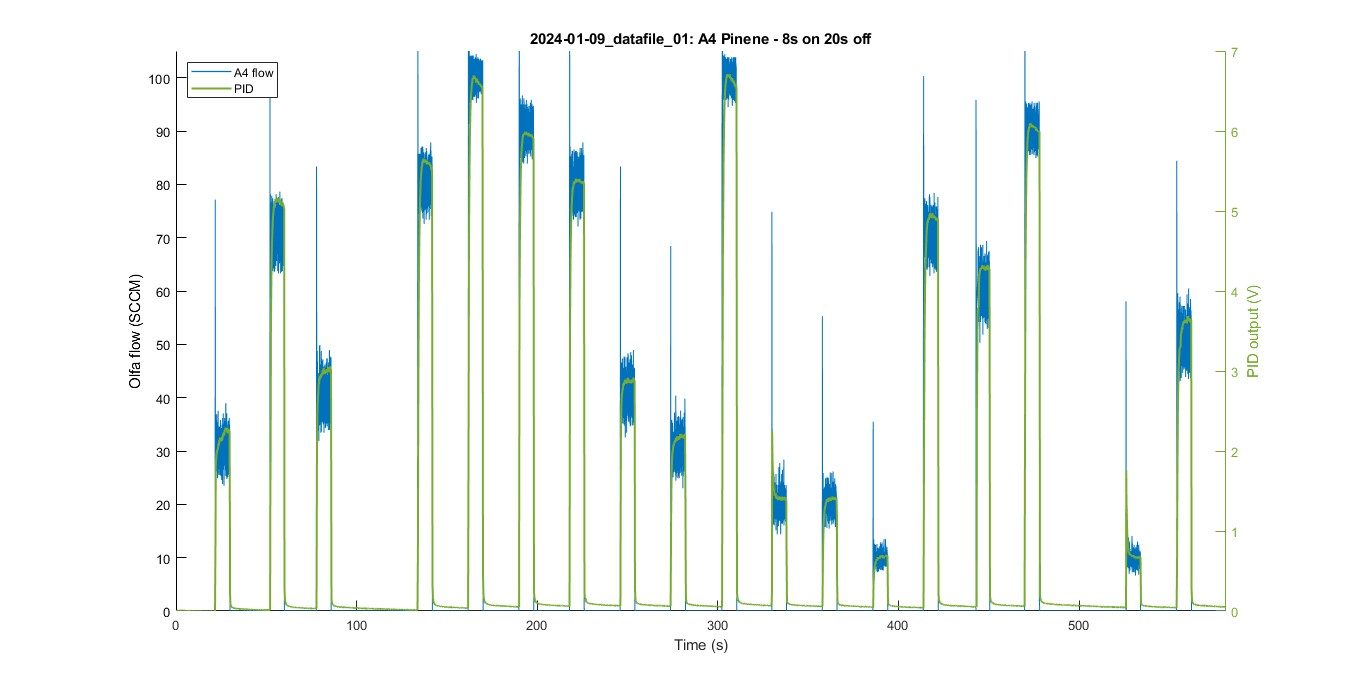
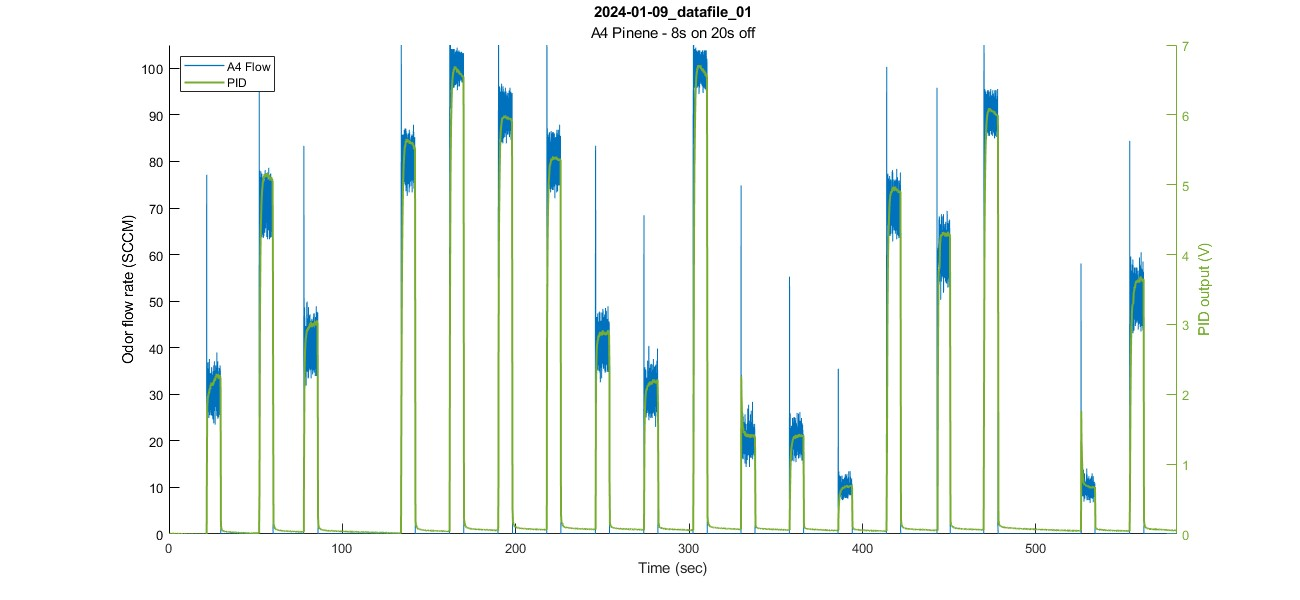
Analysis Docs: Updated images & input arguments to match current functions (a_plot_olfa_and_pid; a_plot_spt_char)

diff --git a/analysis/a_plot_spt_char.m b/analysis/a_plot_spt_char.m
@@ -29,9 +29,9 @@
 %   fig_position
 %   legend_on
 %   show_error_bars
-%   x_lim
 %
 %For individual event plots:
+%   x_lim
 %   plot_x_lines
 %   show_pid_mean
 %   show_flow_mean
@@ -70,9 +70,9 @@ arguments
         plot_opts.fig_position      (1,:) double = [1050 230 812 709]   % flow v. PID plot
         plot_opts.legend_on         (1,:) string = 'yes'
         plot_opts.show_error_bars   (1,1) string = 'yes'
-        plot_opts.x_lim             (1,:) double = []
         
         % For individual event plots
+        plot_opts.x_lim             (1,:) double = []
         plot_opts.show_pid_mean     (1,1) string = 'no'     % Overlay mean PID value on plot
         plot_opts.show_flow_mean    (1,1) string = 'no'     % Overlay mean flow value on plot
         plot_opts.show_x_lines      (1,1) string = 'no'     % Overlay x-lines of where the mean was calculated from
@@ -171,7 +171,6 @@ try
         
         %% Create figure
         figTitle = a_thisfile_name;
-        if ~strcmp(a_this_note, ''); figTitle = append(figTitle, ': ',  a_this_note); end
         f1 = figure; f1.NumberTitle = 'off'; f1.Position = f0.position; hold on;
         f1.Name = a_thisfile_name;
         title(figTitle)

diff --git a/analysis/Documentation/README_a_plot_olfa_and_pid.md b/analysis/Documentation/README_a_plot_olfa_and_pid.md
@@ -37,18 +37,18 @@ Plots olfa flow (SCCM) and PID over time
 
 3. **Plots selected data over time**
 	- Create/set up figure
-		- If selected: Set X limits (`f.x_lim`)
+		- If selected: Set X limits (`plot_opts.x_lim`)
 	
 	- If selected: **Plot olfa flow** (`plot_opts.olfa_flow`)  
 		(default=yes)
-		<!--Vial color based on `f.colors` variable, hard coded in header -->
+		<!--Vial color based on `plot_opts.colors` variable, hard coded in header -->
 		<details>
 		
 		- For each vial:
 			- Get data to plot (SCCM or int) (`plot_opts.flow_in_SCCM`)
 			- Set axis options:
 				- Set Y-Limits (`plot_opts.flow_lims`)
-				- If selected: Scale time (`f.scale_time`)
+				- If selected: Scale time (`plot_opts.scale_time`)
 				- If selected: Change timescale to minutes (`plot_opts.plot_in_minutes`)
 			- **Plot olfa flow**
 		</details>
@@ -65,7 +65,7 @@ Plots olfa flow (SCCM) and PID over time
 		
 	- If selected: **Plot olfa ctrl** (`plot_opts.olfa_ctrl`)  
 		(default=right yaxis, left yaxis if flow is plotted)
-		<!--Vial color based on `f.c_colors` variable, hard coded in header -->
+		<!--Vial color based on `plot_opts.c_colors` variable, hard coded in header -->
 		<details>
 
 		- For each vial:
@@ -73,7 +73,7 @@ Plots olfa flow (SCCM) and PID over time
 			- Set axis options:
 				- If plotting as integer, set Y-Limits (`plot_opts.ctrl_lims`)
 				- If olfa flow is plotted: plot ctrl on right yaxis (else, plot on left yaxis) (`plot_opts.olfa_flow`) 
-				- If selected: Scale time (`f.scale_time`)
+				- If selected: Scale time (`plot_opts.scale_time`)
 				- If selected: Change timescale to minutes (`plot_opts.plot_in_minutes`)
 			- **Plot olfa ctrl**
 		</details>
@@ -84,7 +84,7 @@ Plots olfa flow (SCCM) and PID over time
 
 		- Set axis options:
 			- Set Y-Limits (`plot_opts.pid_lims`)
-			- If selected: Scale time (`f.scale_time`)
+			- If selected: Scale time (`plot_opts.scale_time`)
 			- If selected: Change timescale to minutes (`plot_opts.plot_in_minutes`)
 		- **Plot PID**
 		</details>
@@ -123,8 +123,10 @@ Plots olfa flow (SCCM) and PID over time
 ### Axis Limits  
 **pid_lims - Y-Limits for PID data**  
 &nbsp;&nbsp;[0 3] (default) | two-element vector  
-**flow_lims - Y-Limits for Olfa flow data**  
-&nbsp;&nbsp;two-element vector  
+**flow_lims - Y-Limits for Olfa flow data (SCCM)**  
+&nbsp;&nbsp;[0 105] (default) | two-element vector  
+**flow_lims_int - Y-Limits for Olfa flow data (integer)**  
+&nbsp;&nbsp;[0 1024] (default) | two-element vector  
 **ctrl_lims - Y-Limits for Olfa ctrl data**  
 &nbsp;&nbsp;[-5 260] (default) | two-element vector  
 <br>
@@ -132,15 +134,22 @@ Plots olfa flow (SCCM) and PID over time
 ** need to finish shifting stuff over to input arguments probably
 <br>
 
-### Other
+### Plot options:
 **fig_position - Location and size of figure**  
-&nbsp;&nbsp;[ left bottom width height]  
+&nbsp;&nbsp;[166 210 1300 600] (default) | [left bottom width height]  
+**legend_on - Display legend on figure**  
+&nbsp;&nbsp;'yes' (default) | 'no'  
 **flow_width - LineWidth for flow data**  
 &nbsp;&nbsp;1 (default) | positive value  
 **pid_width - LineWidth for PID data**  
 &nbsp;&nbsp;1.5 (default) | positive value  
-**legend_on - Display legend on figure**  
-&nbsp;&nbsp;'yes' (default) | 'no'  
+<br>
+
+### Other
+**x_lim - X-Limits for figure (in seconds)**  
+&nbsp;&nbsp;two-element vector  
+**scale_time - Shift the data so t=0 at the beginning of the entered x_lims**  
+&nbsp;&nbsp;'no' (default) | 'yes'  
 **plot_setpoint - Draw a line at the setpoint for the duration of each OV event**  
 &nbsp;&nbsp;'no' (default) | 'yes'  
 

diff --git a/analysis/Documentation/README_a_plot_spt_char.md b/analysis/Documentation/README_a_plot_spt_char.md
@@ -31,25 +31,14 @@ Can add:
 
 ## Examples
 
-### Default:
-
-<details><summary>Create Flow vs. PID plot for the given file</summary>
-  <br>
-
-  **Default plot:**  
-  `a_plot_spt_char('2024-01-09_datafile_01');`
+**Default:**  
+Creates Flow vs. PID plot for the given file  
+`a_plot_spt_char('2024-01-09_datafile_01',pid_lims=[0 7]);`
   - Loads .mat file
-  - Calculates mean flow/PID for each event (Cuts 0 seconds from beginning/end)
+  - Calculates mean flow/PID for each event
   - Plots flow v. PID  
 
-<img src="images/examples/spt_char_default.jpg" width="40%">
-<br><br>
-
-  **Show error bars:**  
-  `a_plot_spt_char('2024-01-09_datafile_01',show_error_bars='yes');`  
-  
-  <img src="images/examples/spt_char_default_errorbars.jpg" width="40%">
-</details>
+<p align="center"><img src="images/examples/spt_char_default.jpg" width="35%"></p>
 <br>
 
 ### Additional plots:
@@ -193,17 +182,10 @@ X-lines show the timeframe where the mean was calculated from (usually relevant 
 ### Axis Limits  
 **pid_lims - Y-Limits for PID data**  
 &nbsp;&nbsp;[0 3] (default) | two-element vector  
-**flow_lims_sccm - Y-Limits for Olfa flow data**  
+**flow_lims - Y-Limits for Olfa flow data (SCCM)**  
 &nbsp;&nbsp;[0 105] (default) | two-element vector  
-<br>
-
-### Other
-**show_error_bars - Display error bars on Flow vs. PID plot**  
-&nbsp;&nbsp;'no' (default) | 'yes'  
-**fig_position - Location and size of figure**  
-&nbsp;&nbsp;[ left bottom width height]  
-**legend_on - Display legend on figure**  
-&nbsp;&nbsp;'yes' (default) | 'no'  
+**flow_lims_int - Y-Limits for Olfa flow data (integer)**  
+&nbsp;&nbsp;[0 1024] (default) | two-element vector  
 <br>
 
 ### Data manipulation
@@ -219,9 +201,20 @@ X-lines show the timeframe where the mean was calculated from (usually relevant 
 &nbsp;&nbsp;'no' (default) | 'yes'  
 <br>
 
+### Plot options:
+**fig_position - Location and size of Flow v. PID figure**  
+&nbsp;&nbsp;[1050 230 812 709] (default) | [left bottom width height]  
+**legend_on - Display legend on figure**  
+&nbsp;&nbsp;'yes' (default) | 'no'  
+**show_error_bars - Display error bars on Flow vs. PID plot**  
+&nbsp;&nbsp;'yes' (default) | 'no'  
+<br>
+
 ### For individual event plots:  
 The following options only apply if `plot_all` is set to `'yes'`.  
 
+**x_lim - X-Limits for individual event plots (in seconds)**  
+&nbsp;&nbsp;two-element vector  
 **show_pid_mean - Overlay mean PID value on plot**  
 &nbsp;&nbsp;'no' (default) | 'yes'  
 **show_flow_mean - Overlay mean flow value on plot**  
